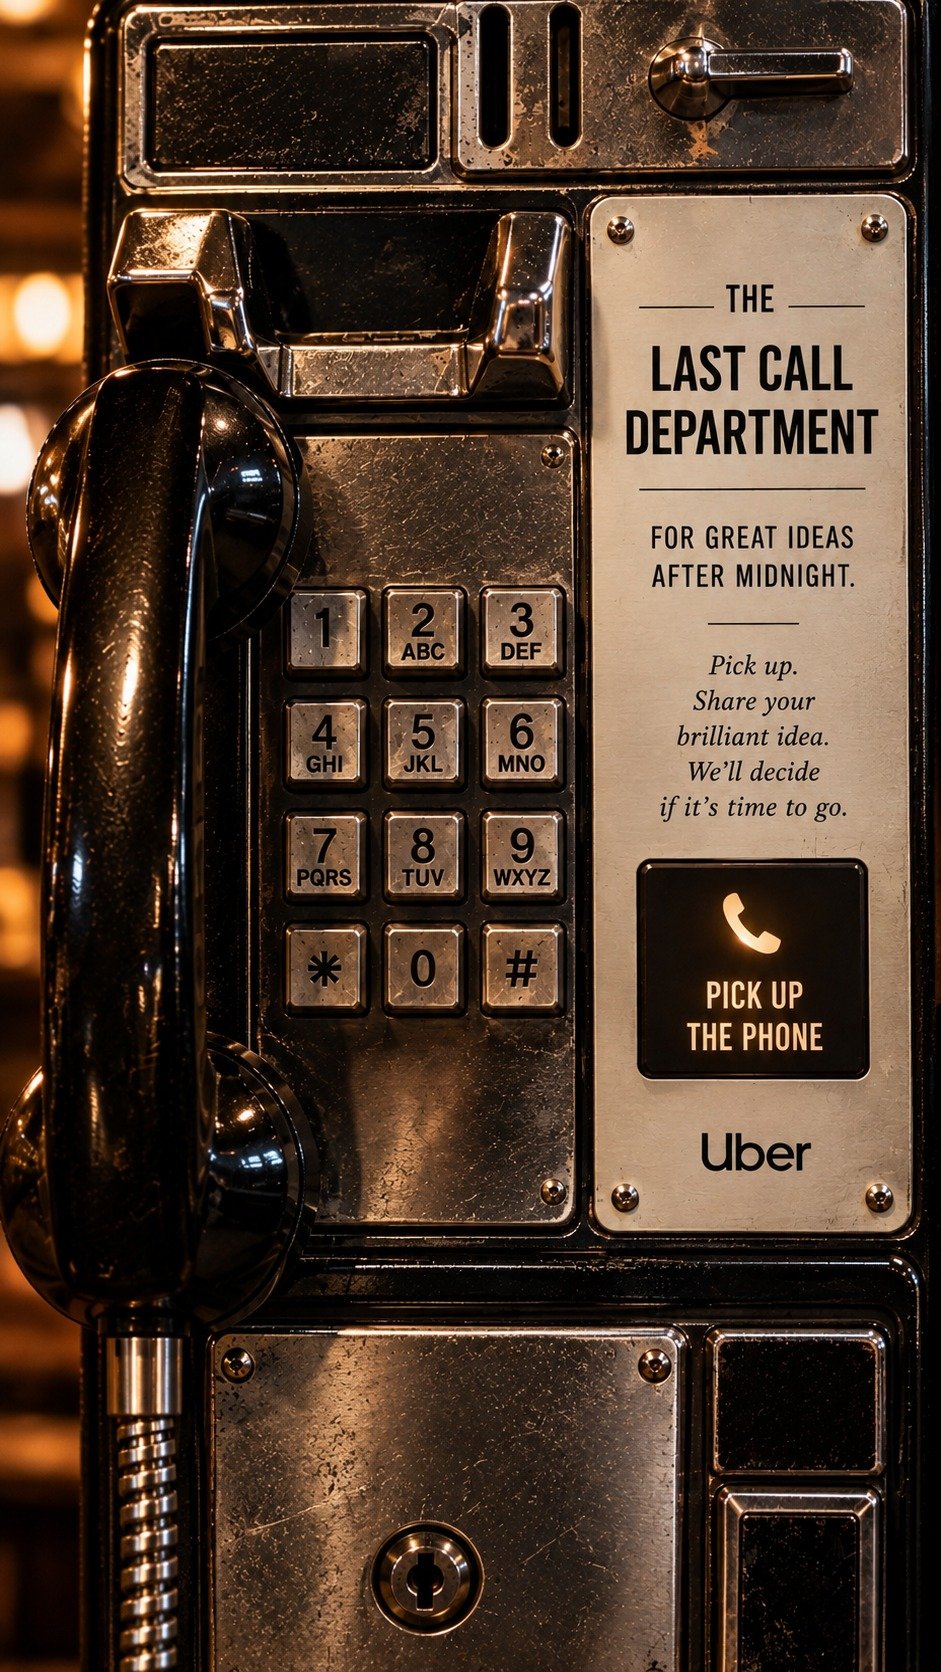
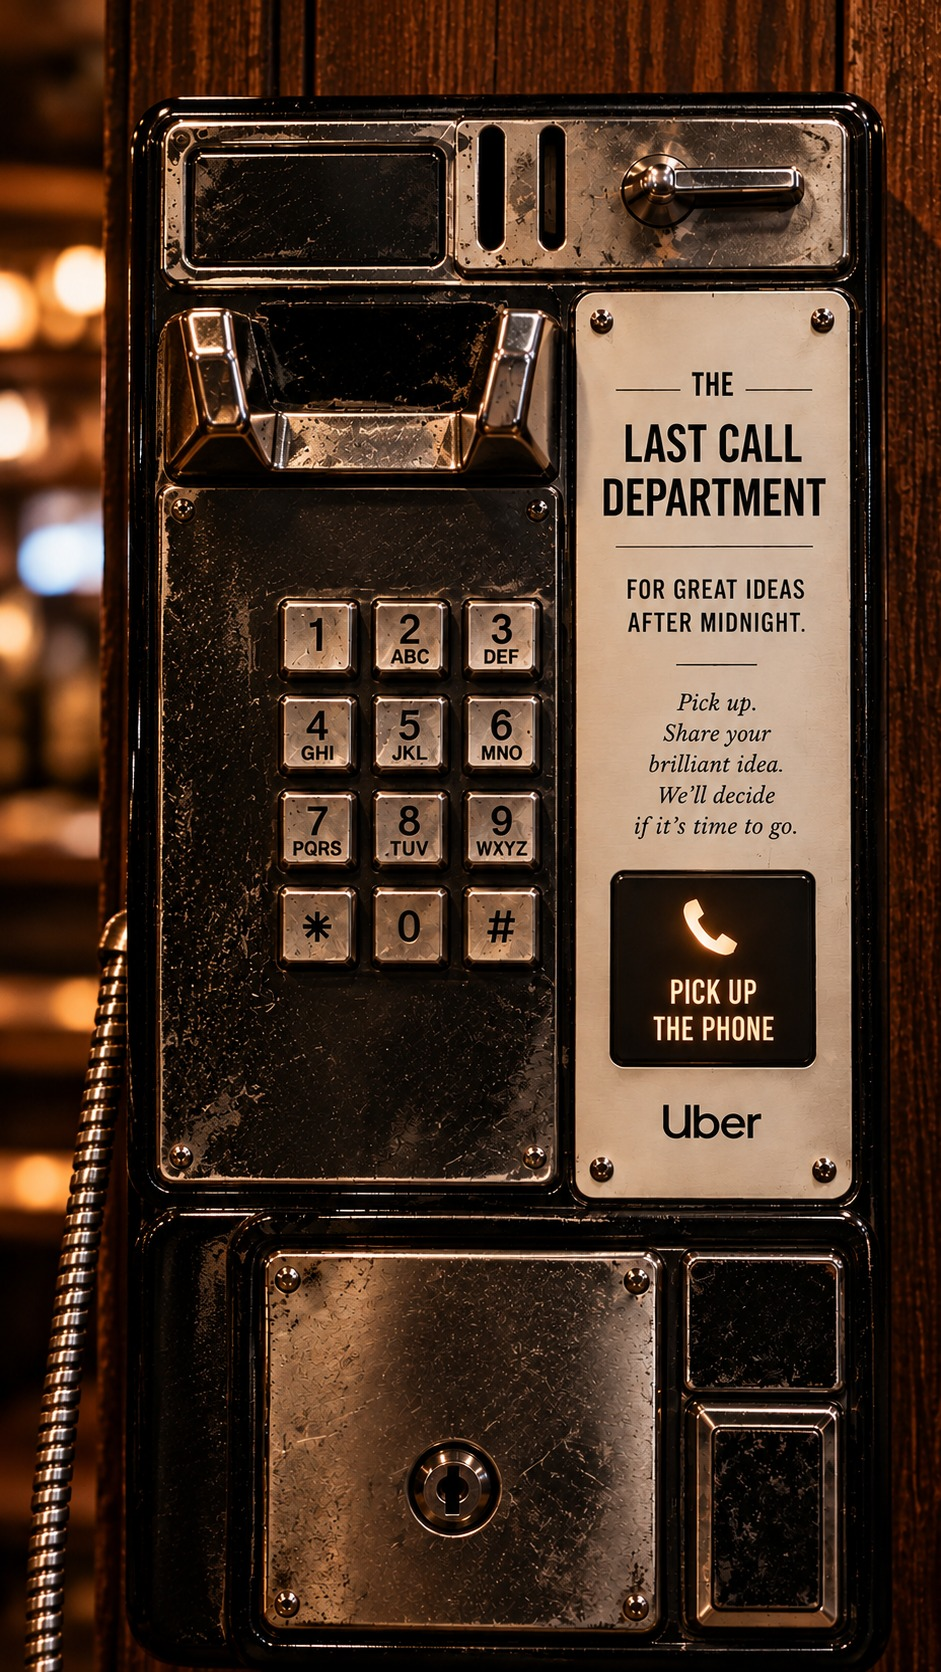
Uber: new approved payphone photo; hotspot realigned to its PICK UP THE PHONE key
Claude-Session: https://claude.ai/code/session_01TW6HnmcSsFnBnCmy5NRgLu

diff --git a/css/style.css b/css/style.css
@@ -340,7 +340,7 @@ figure .zoom:focus-visible{outline:2px solid var(--ink);outline-offset:4px}
 /* Last Call Department: the approved payphone photo is the interface */
 .lastcall-art{position:relative;max-width:440px;margin:40px auto 0;line-height:0;overflow:hidden}
 .lastcall-art>img{display:block;width:100%;height:auto}
-.lc-hot{position:absolute;left:67.69%;top:51.38%;width:24.44%;height:13.1%;padding:0;border:0;border-radius:6px;background:transparent;cursor:pointer;transition:box-shadow .25s ease,background-color .25s ease}
+.lc-hot{position:absolute;left:64.93%;top:52.03%;width:21.57%;height:11.72%;padding:0;border:0;border-radius:6px;background:transparent;cursor:pointer;transition:box-shadow .25s ease,background-color .25s ease}
 .lc-hot:hover{box-shadow:0 0 22px 2px rgba(255,196,128,.35);background:rgba(255,214,160,.05)}
 .lc-hot:active{background:rgba(255,214,160,.12)}
 .lc-hot:focus-visible{outline:2px solid #ffd7a0;outline-offset:3px}

diff --git a/brown-co.html b/brown-co.html
@@ -11,7 +11,7 @@
 <link rel="preconnect" href="https://fonts.googleapis.com">
 <link rel="preconnect" href="https://fonts.gstatic.com" crossorigin>
 <link rel="stylesheet" href="https://fonts.googleapis.com/css2?family=Marcellus&family=Hanken+Grotesk:wght@400;500;600&display=swap">
-<link rel="stylesheet" href="css/style.css?v=36046fe6">
+<link rel="stylesheet" href="css/style.css?v=3f1a4fb0">
 </head>
 <body>
 <a class="skip" href="#main">Skip to content</a>

diff --git a/desert-diamonds.html b/desert-diamonds.html
@@ -11,7 +11,7 @@
 <link rel="preconnect" href="https://fonts.googleapis.com">
 <link rel="preconnect" href="https://fonts.gstatic.com" crossorigin>
 <link rel="stylesheet" href="https://fonts.googleapis.com/css2?family=Marcellus&family=Hanken+Grotesk:wght@400;500;600&display=swap">
-<link rel="stylesheet" href="css/style.css?v=36046fe6">
+<link rel="stylesheet" href="css/style.css?v=3f1a4fb0">
 </head>
 <body>
 <a class="skip" href="#main">Skip to content</a>

diff --git a/fage.html b/fage.html
@@ -11,7 +11,7 @@
 <link rel="preconnect" href="https://fonts.googleapis.com">
 <link rel="preconnect" href="https://fonts.gstatic.com" crossorigin>
 <link rel="stylesheet" href="https://fonts.googleapis.com/css2?family=Marcellus&family=Hanken+Grotesk:wght@400;500;600&display=swap">
-<link rel="stylesheet" href="css/style.css?v=36046fe6">
+<link rel="stylesheet" href="css/style.css?v=3f1a4fb0">
 </head>
 <body>
 <a class="skip" href="#main">Skip to content</a>

diff --git a/index.html b/index.html
@@ -11,7 +11,7 @@
 <link rel="preconnect" href="https://fonts.googleapis.com">
 <link rel="preconnect" href="https://fonts.gstatic.com" crossorigin>
 <link rel="stylesheet" href="https://fonts.googleapis.com/css2?family=Marcellus&family=Hanken+Grotesk:wght@400;500;600&display=swap">
-<link rel="stylesheet" href="css/style.css?v=36046fe6">
+<link rel="stylesheet" href="css/style.css?v=3f1a4fb0">
 </head>
 <body>
 <a class="skip" href="#main">Skip to content</a>

diff --git a/lab.html b/lab.html
@@ -11,7 +11,7 @@
 <link rel="preconnect" href="https://fonts.googleapis.com">
 <link rel="preconnect" href="https://fonts.gstatic.com" crossorigin>
 <link rel="stylesheet" href="https://fonts.googleapis.com/css2?family=Marcellus&family=Hanken+Grotesk:wght@400;500;600&display=swap">
-<link rel="stylesheet" href="css/style.css?v=36046fe6">
+<link rel="stylesheet" href="css/style.css?v=3f1a4fb0">
 </head>
 <body>
 <a class="skip" href="#main">Skip to content</a>

diff --git a/synth-city.html b/synth-city.html
@@ -11,7 +11,7 @@
 <link rel="preconnect" href="https://fonts.googleapis.com">
 <link rel="preconnect" href="https://fonts.gstatic.com" crossorigin>
 <link rel="stylesheet" href="https://fonts.googleapis.com/css2?family=Marcellus&family=Hanken+Grotesk:wght@400;500;600&display=swap">
-<link rel="stylesheet" href="css/style.css?v=36046fe6">
+<link rel="stylesheet" href="css/style.css?v=3f1a4fb0">
 </head>
 <body>
 <a class="skip" href="#main">Skip to content</a>

diff --git a/turbochef.html b/turbochef.html
@@ -11,7 +11,7 @@
 <link rel="preconnect" href="https://fonts.googleapis.com">
 <link rel="preconnect" href="https://fonts.gstatic.com" crossorigin>
 <link rel="stylesheet" href="https://fonts.googleapis.com/css2?family=Marcellus&family=Hanken+Grotesk:wght@400;500;600&display=swap">
-<link rel="stylesheet" href="css/style.css?v=36046fe6">
+<link rel="stylesheet" href="css/style.css?v=3f1a4fb0">
 </head>
 <body>
 <a class="skip" href="#main">Skip to content</a>

diff --git a/uber.html b/uber.html
@@ -11,7 +11,7 @@
 <link rel="preconnect" href="https://fonts.googleapis.com">
 <link rel="preconnect" href="https://fonts.gstatic.com" crossorigin>
 <link rel="stylesheet" href="https://fonts.googleapis.com/css2?family=Marcellus&family=Hanken+Grotesk:wght@400;500;600&display=swap">
-<link rel="stylesheet" href="css/style.css?v=36046fe6">
+<link rel="stylesheet" href="css/style.css?v=3f1a4fb0">
 </head>
 <body>
 <a class="skip" href="#main">Skip to content</a>
